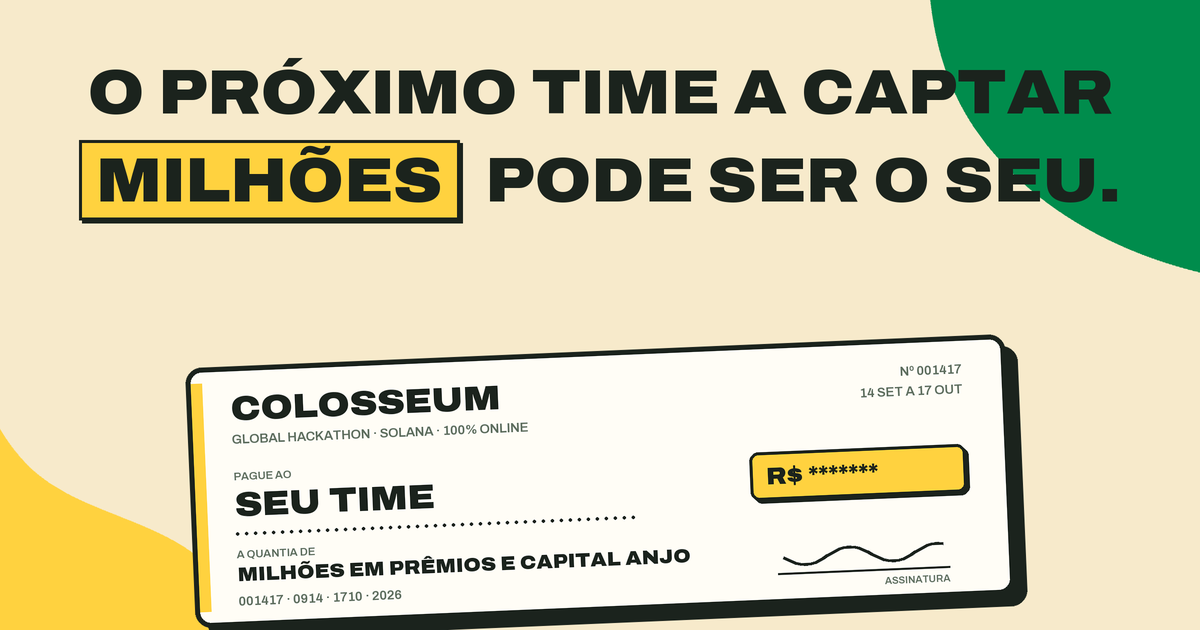
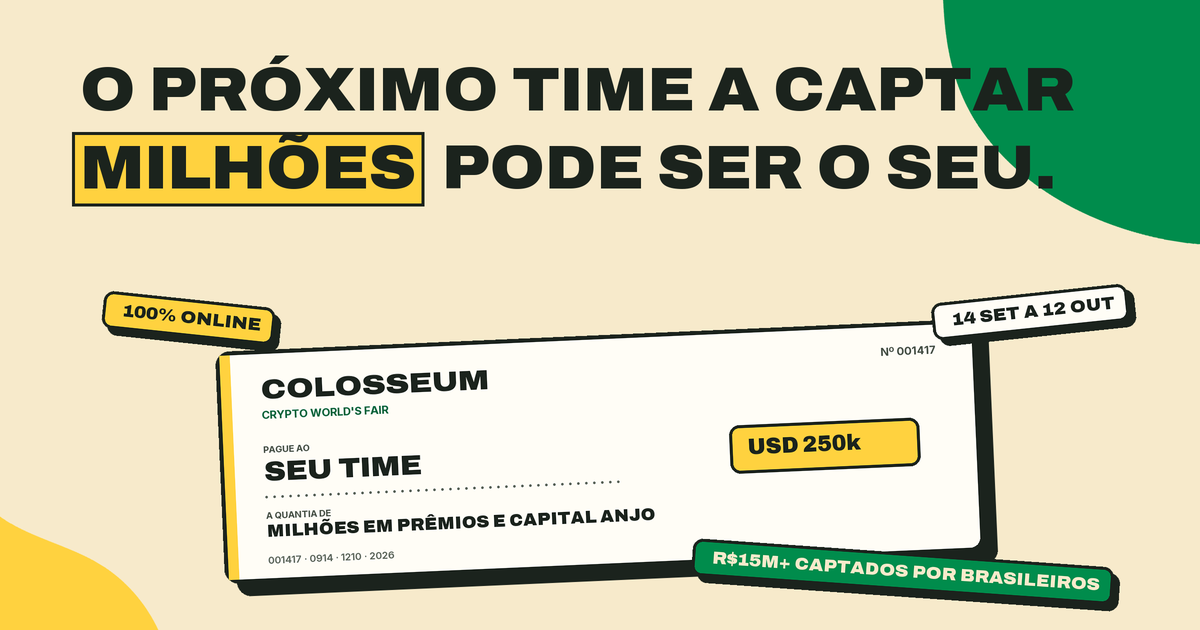
fix: World's Fair name in metadata, OG image and the mobile hero shape
The tab title and pre-registro copy still said Global Hackathon, the OG
image baked in 17 out, and the second hero shape had lost its sm gate.

diff --git a/src/app/(public)/page.tsx b/src/app/(public)/page.tsx
@@ -19,7 +19,7 @@ import { Tilt } from "@/components/ui/tilt";
 
 
 export const metadata = {
-  title: "Colosseum Global Hackathon 2026",
+  title: "Colosseum Crypto World's Fair 2026",
   description:
     "O próximo time a captar milhões pode ser o seu. Cadastre-se para o Colosseum, o hackathon global da Solana: 100% remoto, prêmios milionários e capital anjo.",
   openGraph: {
@@ -183,7 +183,7 @@ export default async function HomePage() {
             style={{ maskImage: "url(/brand/stbr/elements/morth-07.svg)", WebkitMaskImage: "url(/brand/stbr/elements/morth-07.svg)", transform: "rotate(14deg)" }}
           />
           <div
-            className="morth animate-float-b absolute -right-28 top-[58%] h-56 w-56 bg-emerald sm:-right-40 sm:top-[44%] sm:h-[18rem] sm:w-[18rem] lg:-right-56 lg:top-[7%] lg:h-[26rem] lg:w-[26rem] 2xl:-right-64 2xl:h-[34rem] 2xl:w-[34rem]"
+            className="morth animate-float-b absolute hidden bg-emerald sm:block sm:-right-40 sm:top-[44%] sm:h-[18rem] sm:w-[18rem] lg:-right-56 lg:top-[7%] lg:h-[26rem] lg:w-[26rem] 2xl:-right-64 2xl:h-[34rem] 2xl:w-[34rem]"
             style={{ maskImage: "url(/brand/stbr/elements/morth-12.svg)", WebkitMaskImage: "url(/brand/stbr/elements/morth-12.svg)", transform: "rotate(-9deg)" }}
           />
         </div>

diff --git a/src/app/(public)/pre-registro/page.tsx b/src/app/(public)/pre-registro/page.tsx
@@ -13,7 +13,7 @@ import { TrackedLink } from "./tracked-link";
 
 export const metadata = {
   title: "Cadastro Colosseum",
-  description: "Garanta sua vaga na campanha brasileira para o Colosseum Global Hackathon 2026.",
+  description: "Garanta sua vaga na campanha brasileira para o Colosseum Crypto World's Fair 2026.",
   openGraph: { images: [{ url: "/brand/og-colosseum.png", width: 1200, height: 630 }] },
 };
 
@@ -97,7 +97,7 @@ export default async function PreRegistroPage() {
               Complete seu cadastro
             </h1>
             <p className="mt-2 text-sm leading-relaxed text-muted">
-              Falta pouco: confirme seus dados para garantir sua vaga no Colosseum Global Hackathon.
+              Falta pouco: confirme seus dados para garantir sua vaga no Colosseum Crypto World&apos;s Fair.
             </p>
             <div className="mt-6">
               <PreregForm profile={state!.profile} />
